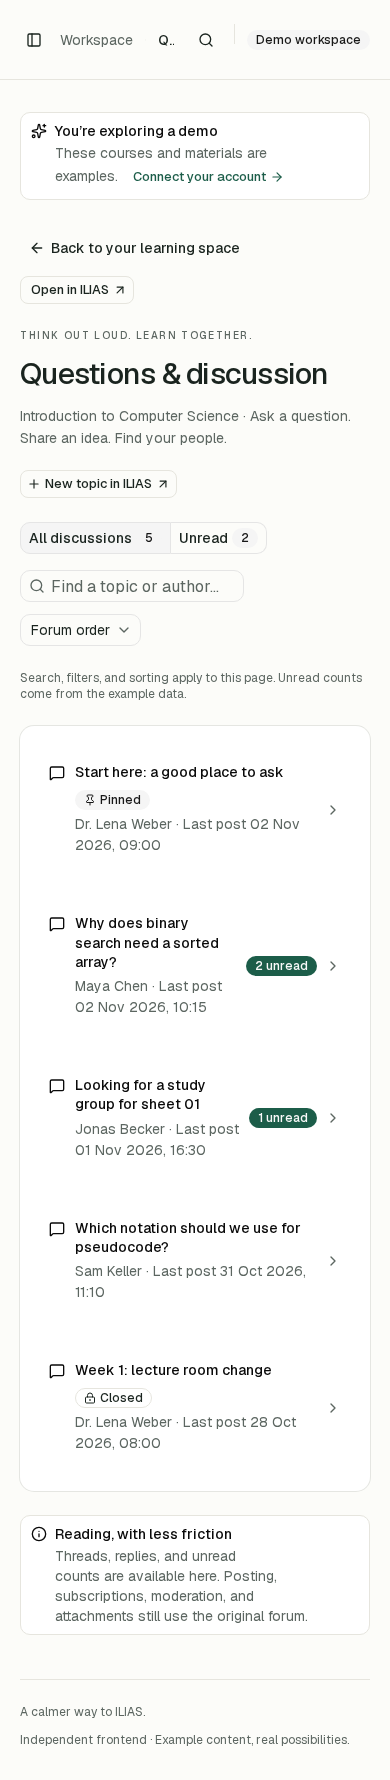
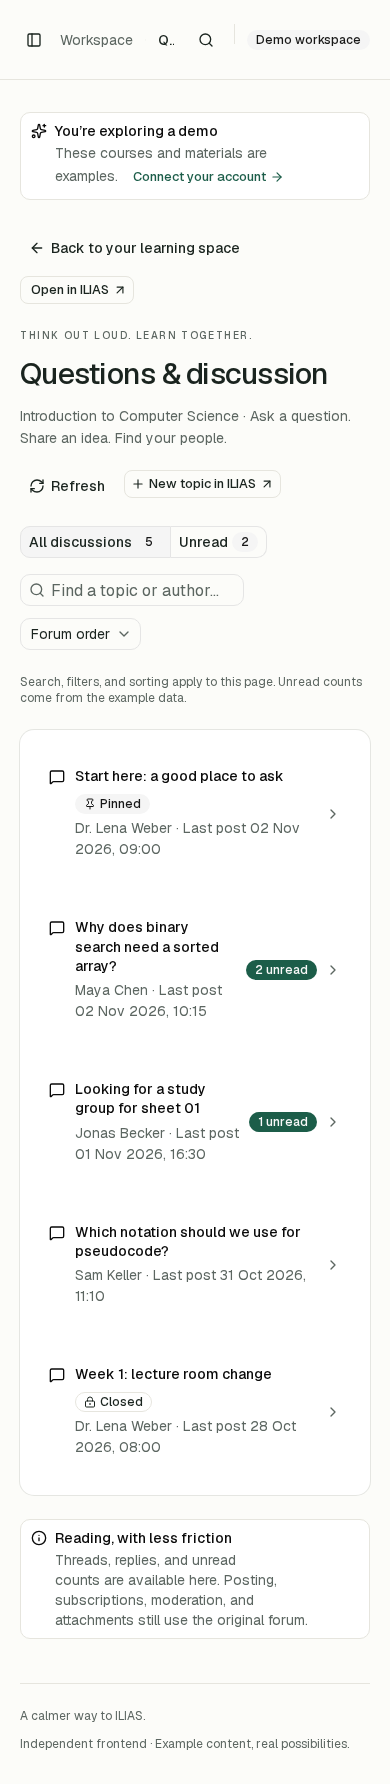
Document navigation measurements and refresh screenshots

diff --git a/README.md b/README.md
@@ -60,7 +60,7 @@ Try **http://127.0.0.1:3000/?demo=1** without an account. Example courses, activ
 - Authenticated, streamed file downloads. Errors stay in the interface rather than opening a JSON error page.
 - Course introduction text and original course-tool links.
 - Native forum browsing and reading: thread search, unread filtering, pin/closed indicators, formatted posts, reply context, post links, chronological views, and thread/post pagination. Search and sorting apply to the loaded page.
-- Explicit **Mark thread read** updates ILIAS using its currently offered action. Demo read status stays in this browser tab. Discussion links disable Next.js prefetch so unread/read requests happen when opened.
+- Explicit **Mark thread read** updates ILIAS using its currently offered action. Demo read status stays in this browser tab. Fresh live discussion links disable background data prefetch so unread/read requests happen when opened. Demo links may be prefetched.
 - Course filtering, grid/list views, and a keyboard-operated **Ctrl/Cmd+K** search palette. Search covers the current page, saved items, and recently opened objects; it is not a repository-wide search.
 - Browser-local saved items and recently opened content, isolated per connection. These do not modify ILIAS favorites. Reconnecting creates a fresh connection and a separate saved-item namespace.
 - Responsive navigation, loading/error/empty states, and explicit session-expiry handling.
@@ -85,6 +85,16 @@ Open a forum from a course or a saved item. Try [the example forum](http://127.0
 - **Reply in ILIAS** opens the original editor, respecting the page’s available actions. Drafts are not presented as published posts. Closed threads retain ILIAS’s restrictions.
 
 Post formatting includes paragraphs, lists, code, quotes, links, and tables. Bodies are sanitized before rendering; scripts, event handlers, remote images, and embeds are excluded. Posts with embedded content show a visible original-page handoff. Author aliases, moderation notices, and approval status are preserved from ILIAS. An unsupported layout or selected subtree produces a visible notice.
+
+## Navigation speed and freshness
+
+Achilias uses Next.js client-side navigation and production prefetching. Settings and Saved can be prepared in the background without calling ILIAS. Recently visited pages can be reused for **30 seconds** in the current browser, making return visits quick; filters and post search stay local.
+
+Fresh live course, folder, and forum pages load when opened. They are not fetched in the background because ILIAS can record visits/read events or change forum view preferences during a read. Demo content can be prefetched freely. Use **Refresh** to fetch current content and invalidate recent pages. The forum UI’s mark-read action invalidates the cache too. Sign-in and disconnect clear the client router state so another account does not inherit it.
+
+A production demo run with 120 ms of simulated browser network latency improved Settings navigation from **344 ms to 43 ms**, and repeat course/thread navigation from approximately **147 ms to 47 ms**. This compares Achilias before and after optimization; **it is not a benchmark against authenticated Freiburg ILIAS**. First-time live content still depends on ILIAS responding.
+
+See the [measurements, limitations, and reproduction steps](docs/performance/README.md). Test prefetching with a production build; development mode does not represent its final performance.
 
 ## Running on a headless server
 
@@ -187,7 +197,7 @@ bun run build
 bun run start --hostname 127.0.0.1
 ```
 
-`bun run test` checks ILIAS template parsing, restricted/unsupported content, cookie rotation, redirect credential boundaries, expired sessions, pairing validation, and encrypted session persistence. Forum fixtures follow the ILIAS 10 standard-item and post templates and check counts, hierarchy, sanitization, drafts, permissions, pagination, and action scoping. `bun run test:e2e` checks the demo flows in Chromium, including download, bookmarks across reloads, quick search, mobile navigation, single-use connection claims, session expiry, and reconnect/disconnect behavior. The last checks use a deliberately credential-free test session against the public Freiburg endpoint; they do not sign in to a real account. `bun run test:forums` runs the forum browser checks alone, including filters, reply context, post search, unread jumps, copied links, read-state persistence in the demo, closed topics, and mobile layouts. `bun run test:headless` exercises the pairing UI, code renewal/cancellation, remote CLI over stdin, and rejection of an unauthenticated transfer. Unit tests mock successful validation to check replay protection and cancellation races; no real account is used. Set `ACHILIAS_TEST_URL` to test another local port.
+`bun run test` checks ILIAS template parsing, restricted/unsupported content, cookie rotation, redirect credential boundaries, expired sessions, pairing validation, and encrypted session persistence. Forum fixtures follow the ILIAS 10 standard-item and post templates and check counts, hierarchy, sanitization, drafts, permissions, pagination, and action scoping. `bun run test:e2e` checks the demo flows in Chromium, including download, bookmarks across reloads, quick search, mobile navigation, single-use connection claims, session expiry, and reconnect/disconnect behavior. The last checks use a deliberately credential-free test session against the public Freiburg endpoint; they do not sign in to a real account. `bun run test:forums` runs the forum browser checks alone, including filters, reply context, post search, unread jumps, copied links, read-state persistence in the demo, closed topics, and mobile layouts. `bun run test:headless` exercises the pairing UI, code renewal/cancellation, remote CLI over stdin, and rejection of an unauthenticated transfer. Unit tests mock successful validation to check replay protection and cancellation races; no real account is used. For production navigation, run `bun run test:navigation` and `bun run benchmark:navigation` against a production preview (port 3001 by default). Set `ACHILIAS_TEST_URL` to test another local port.
 
 While `next dev` is running, use `ACHILIAS_BUILD_DIR=.next-build bun run build` to preserve its `.next` directory. Start that build with the same variable if you want to run it.
 

diff --git a/docs/performance/README.md b/docs/performance/README.md
@@ -1,0 +1,46 @@
+# Navigation measurements
+
+These are **before/after measurements of Achilias**, not a comparison with the original Freiburg frontend. The baseline build used commit `aba00d0`; the optimized build uses the navigation changes described below.
+
+The same desktop Chromium script ran against local production builds with demo data and an emulated **120 ms browser network latency**, 2 MB/s download, and 1 MB/s upload. It measures from the browser's click event until the destination heading appears and two animation frames have elapsed. Links have time to prefetch before the relevant clicks. These are a single illustrative run per build, not statistical benchmarks, first-load metrics, or live ILIAS account measurements.
+
+| Navigation                 | Before | After |
+| -------------------------- | -----: | ----: |
+| Overview → Settings        | 344 ms | 43 ms |
+| Settings → Saved           | 347 ms | 47 ms |
+| Saved → Overview           | 347 ms | 47 ms |
+| Overview → Course          | 163 ms | 46 ms |
+| Course → Folder            | 147 ms | 46 ms |
+| Folder → Overview          | 348 ms | 47 ms |
+| Overview → Course (repeat) | 147 ms | 47 ms |
+| Course → Forum             | 447 ms | 47 ms |
+| Forum → Thread             | 164 ms | 49 ms |
+| Thread → Forum (repeat)    | 147 ms | 47 ms |
+| Forum → Thread (repeat)    | 147 ms | 47 ms |
+
+The raw reports are [before](navigation-before.json) and [after](navigation-after.json). `rscRequests` counts all RSC requests during the measured interval, including background prefetches for other destinations revealed by the new page. It should not be interpreted as a count of requests for the clicked destination alone.
+
+## What changed
+
+- Course/folder/forum navigation uses actual Next.js Links instead of click-only buttons. The demo can fully prefetch its examples.
+- Settings and Saved use local session metadata, without fetching the upstream ILIAS dashboard. These pages can be fully prefetched safely.
+- Next's client router reuses recently visited pages for 30 seconds. This stays in the current browser; no personal content is cached in a shared server data cache.
+- Fresh live ILIAS-backed destinations still disable background data prefetch. Fetching those pages can record visits/read events or alter forum view preferences.
+- Refresh and the forum UI's mark-read action invalidate cached navigation using a Server Action. Signing in or disconnecting performs a full navigation to discard the previous account's client router state.
+
+The 30-second reuse currently uses Next 16.4.3's documented experimental `staleTimes` setting. Keep the production navigation regression test when upgrading Next. Automatic prefetching is a production optimization; `bun run dev` does not demonstrate its final behavior.
+
+## Reproduce
+
+Build and start a production preview on port 3001, then run:
+
+```sh
+bun run test:navigation
+bun run benchmark:navigation
+```
+
+Use `ACHILIAS_TEST_URL` for another local address, `ACHILIAS_BENCH_LATENCY` to change simulated latency, and `ACHILIAS_BENCH_OUTPUT` to save a JSON report. Do not run a build into the output directory of a running server. Use `ACHILIAS_BUILD_DIR=.next-build` for a separate production build while the dev server uses `.next`.
+
+The production regression test checks that a warmed destination does not request its content again on click (empty route-tree discovery probes are excluded), ordinary navigation preserves the document, Refresh completes, live metadata screens do not prefetch ILIAS-backed destinations, and disconnecting clears a previous account's warmed pages.
+
+A real comparison still needs an authenticated Freiburg account, the same tasks on both frontends, and the same device/network conditions. First-time material and thread loads still wait for ILIAS and can include redirect and parsing overhead. These figures do not establish that cold live loads are faster than the original frontend.
